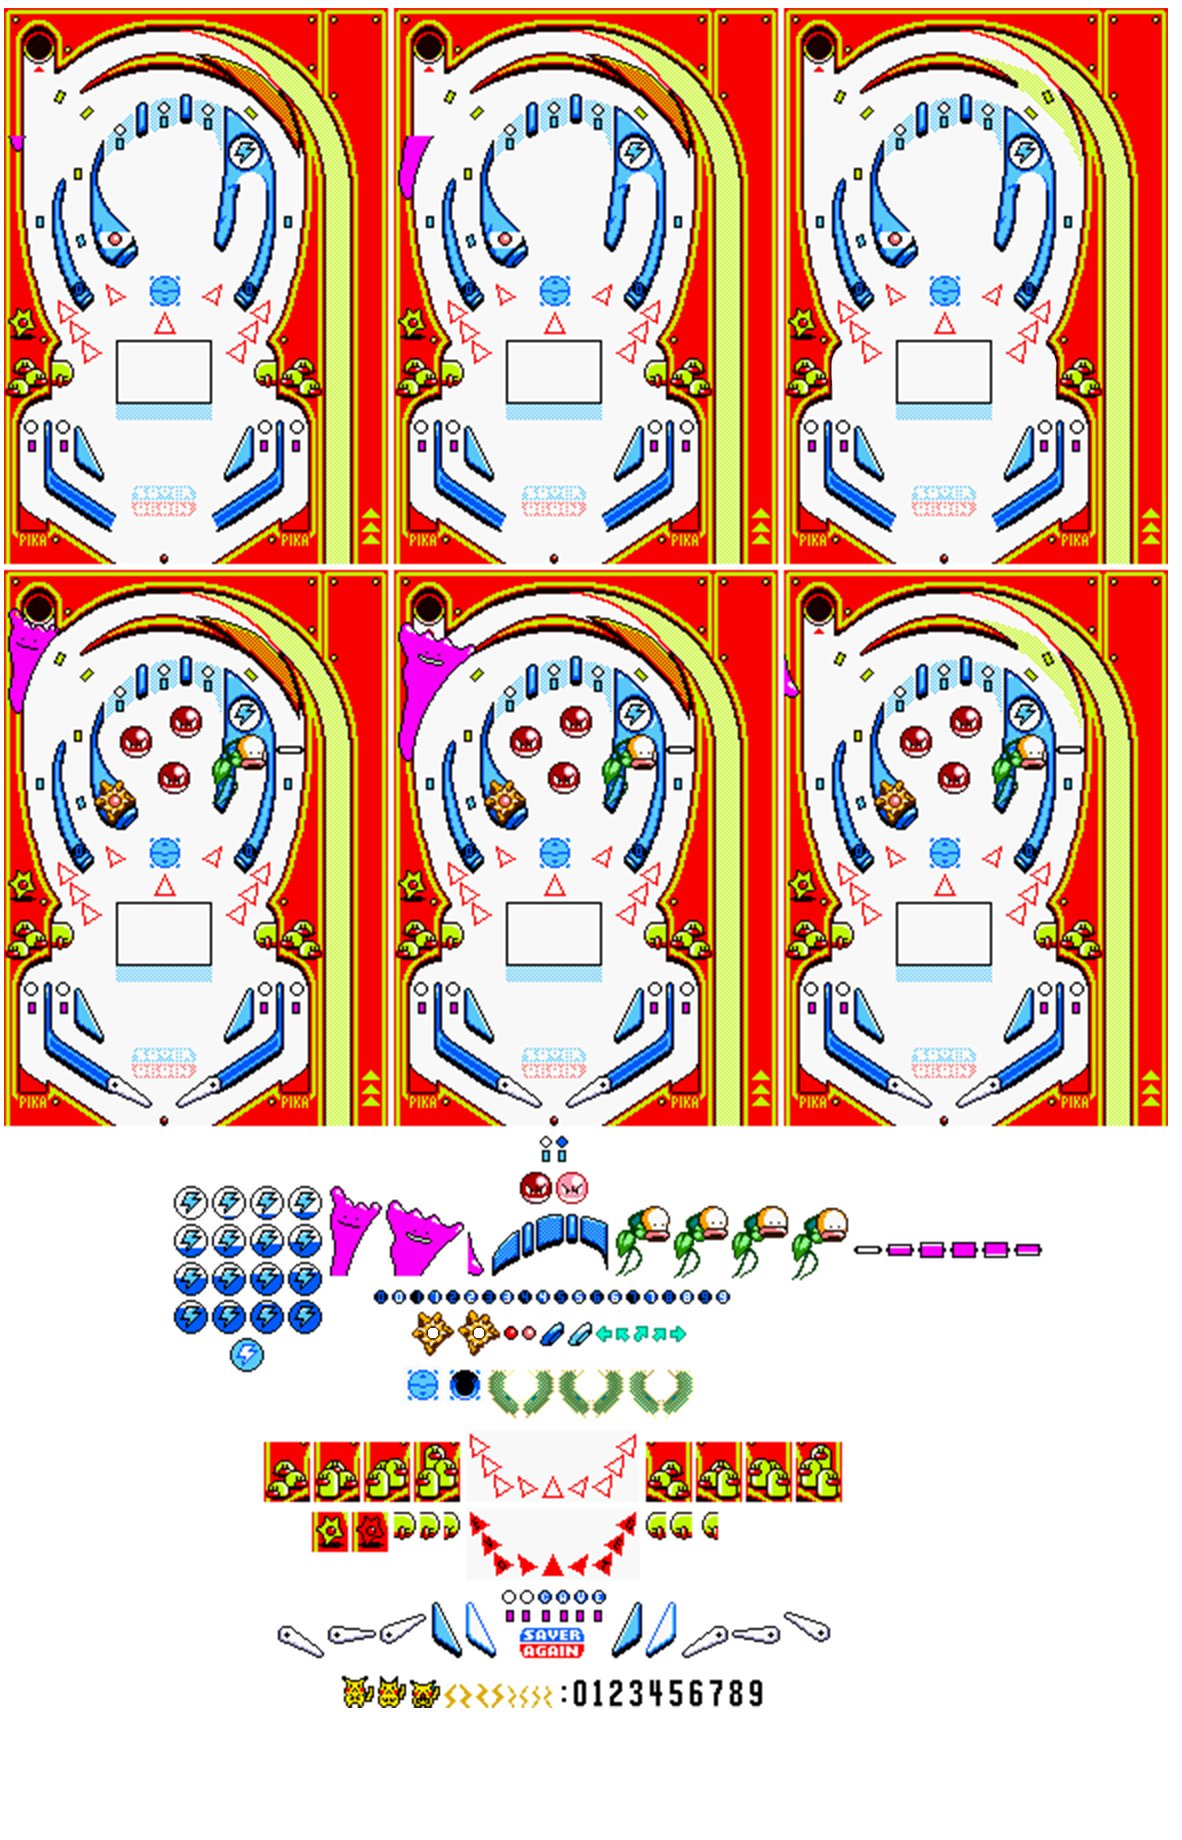
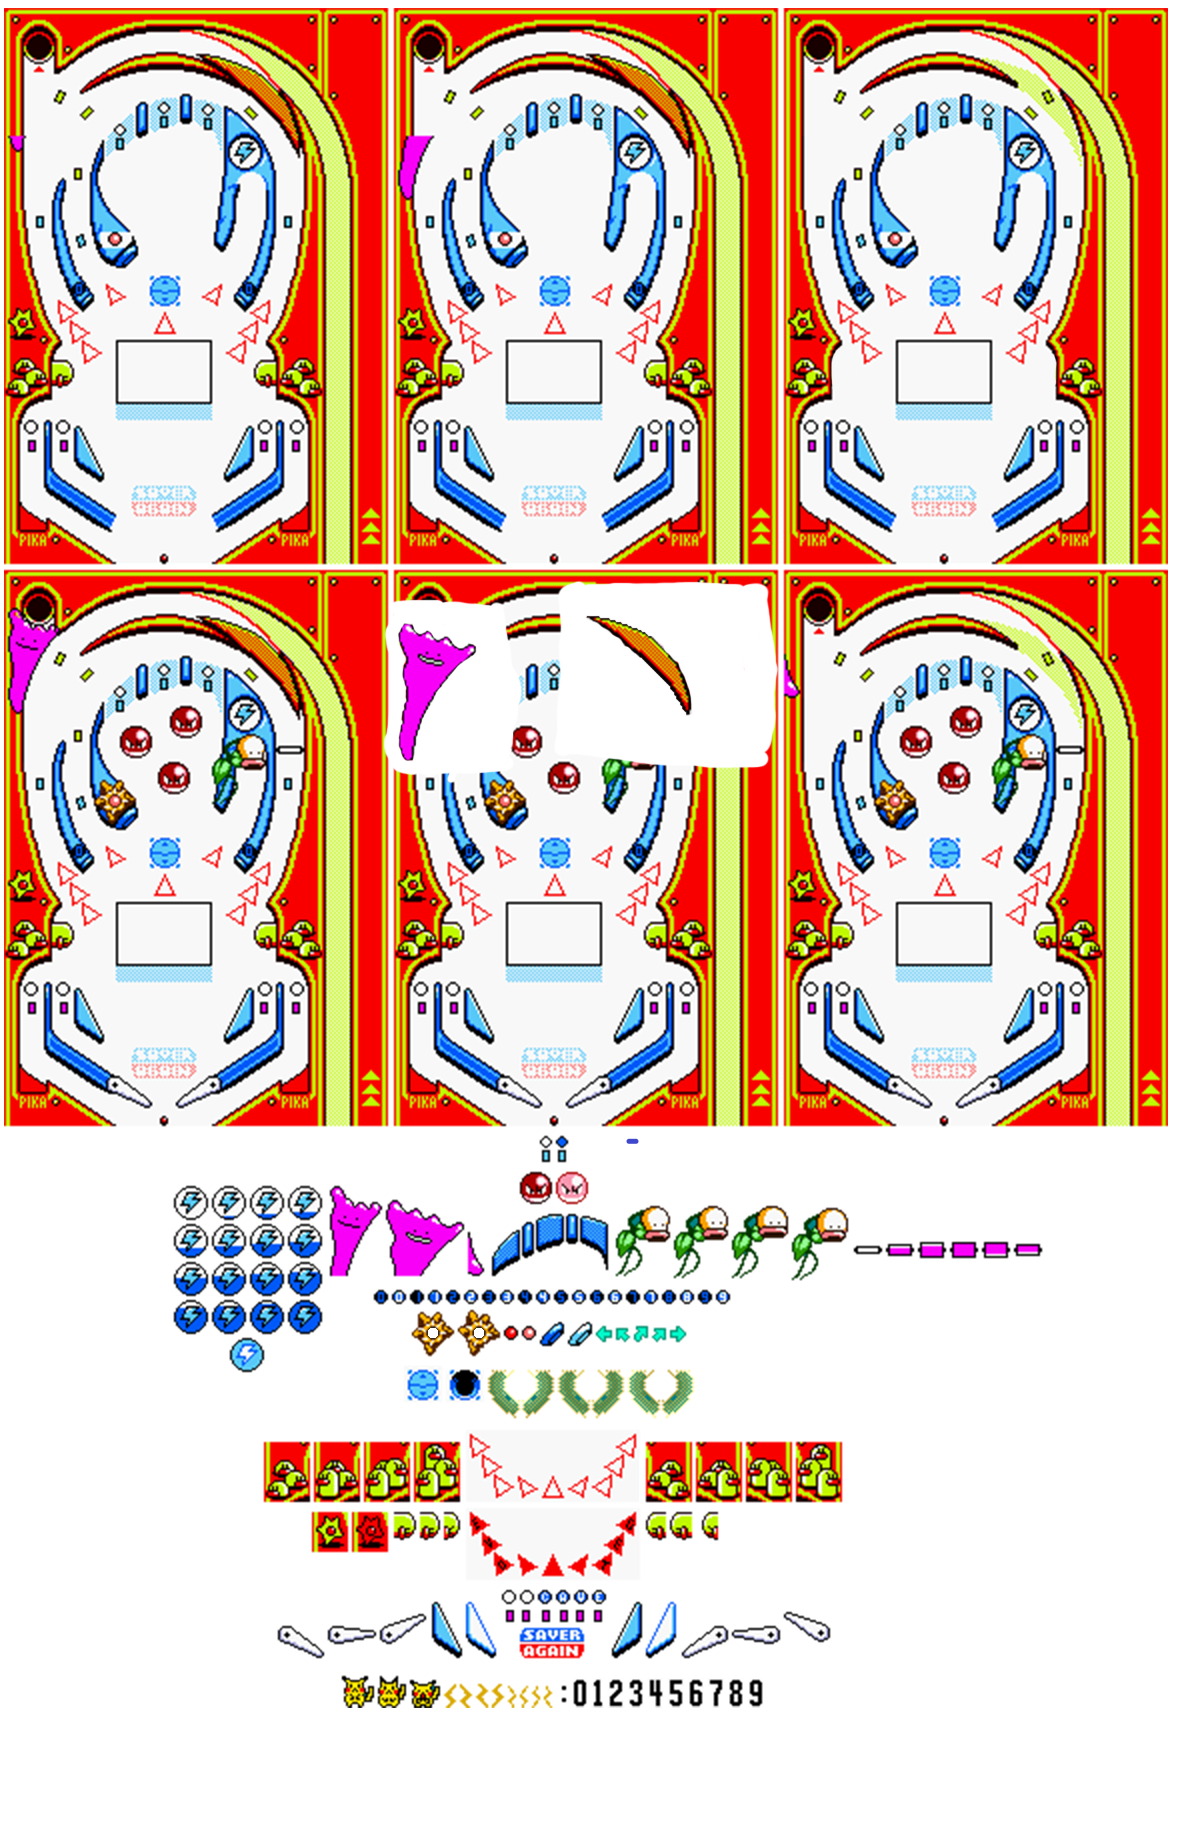
Amost all sprites

Changed region(s): [[0.3046, 0.3098, 0.6701, 0.4337]]

diff --git a/Pokemon_Pinball/ModuleSceneIntro.cpp b/Pokemon_Pinball/ModuleSceneIntro.cpp
@@ -19,10 +19,30 @@ ModuleSceneIntro::ModuleSceneIntro(Application* app, bool start_enabled) : Modul
 	pinball.ditto.w = 53;
 	pinball.ditto.h = 91;
 
+	pinball.ditto_expanded.x = 398;
+	pinball.ditto_expanded.y = 623;
+	pinball.ditto_expanded.w = 79;
+	pinball.ditto_expanded.h = 137;
+
 	pinball.voltorb_boost.x = 519;
 	pinball.voltorb_boost.y = 1171;
 	pinball.voltorb_boost.w = 34;
 	pinball.voltorb_boost.h = 35;
+
+	pinball.blocker.x = 586;
+	pinball.blocker.y = 616;
+	pinball.blocker.w = 106;
+	pinball.blocker.h = 100;
+
+	pinball.triangle_boosted_L.x = 464;
+	pinball.triangle_boosted_L.y = 1602;
+	pinball.triangle_boosted_L.w = 32;
+	pinball.triangle_boosted_L.h = 57;
+
+	pinball.triangle_boosted_R.x = 645;
+	pinball.triangle_boosted_R.y = 1602;
+	pinball.triangle_boosted_R.w = 33;
+	pinball.triangle_boosted_R.h = 59;
 }
 
 ModuleSceneIntro::~ModuleSceneIntro()
@@ -97,12 +117,6 @@ bool ModuleSceneIntro::Start()
 	pinball.starmie2.loop = true;
 	pinball.starmie2.speed = 0.03;
 
-	pinball.flipper_L.PushBack({ 277, 1625, 48, 34 });
-	pinball.flipper_L.PushBack({ 327, 1625, 50, 20 });
-	pinball.flipper_L.PushBack({ 379, 1613, 48, 32 });
-	pinball.flipper_L.loop = true;
-	pinball.flipper_L.speed = 0.06;
-
 	pinball.mid_screen.PushBack({ 1103, 10, 98, 66 });
 	pinball.mid_screen.PushBack({ 1203, 10, 98, 66 });
 	pinball.mid_screen.PushBack({ 1303, 10, 98, 66 });
@@ -147,19 +161,33 @@ update_status ModuleSceneIntro::Update()
 		PhysBody* Circle = App->physics->CreateCircle(App->input->GetMouseX(), App->input->GetMouseY(), PIXELS_TO_METERS(16));
 	}
 
-	//TEXTURES-----------------------------------------
+	
 	if (App->physics->debug == false) //Temporal measure to debug. Switches between the pinball map and the objects.
-	{
+
+	{	//TEXTURES-----------------------------------------
+
 		//Load background
 		App->renderer->Blit(pinball.background_tex, 0, 0, &pinball.background);
 
 		//Load ditto
 		App->renderer->Blit(pinball.background_tex, 3, 43, &pinball.ditto);
 
+		//Load expanded ditto
+		//App->renderer->Blit(pinball.background_tex, 5, 50, &pinball.ditto_expanded);
+
 		//Load voltorb
 		App->renderer->Blit(pinball.background_tex, 150, 193, &pinball.voltorb_boost);
 		App->renderer->Blit(pinball.background_tex, 170, 133, &pinball.voltorb_boost);
 		App->renderer->Blit(pinball.background_tex, 110, 153, &pinball.voltorb_boost);
+
+		//Load blocker
+		App->renderer->Blit(pinball.background_tex, 188, 46, &pinball.blocker);
+
+		//Load left triangle when hit
+		//App->renderer->Blit(pinball.background_tex, 68, 420, &pinball.triangle_boosted_L);
+
+		//Load right triangle when hit
+		//App->renderer->Blit(pinball.background_tex, 216, 420, &pinball.triangle_boosted_R);
 
 		//ANIMATIONS----------------------------------------
 
@@ -178,9 +206,16 @@ update_status ModuleSceneIntro::Update()
 		//Diglett at right side animation
 		App->renderer->Blit(pinball.background_tex, 248, 350, &(pinball.diglett_Right_Side.GetCurrentFrame()));
 
-		//Pikachus animation
-		App->renderer->Blit(pinball.background_tex, 275, 490, &(pinball.pikachu.GetCurrentFrame()));
-		App->renderer->Blit(pinball.background_tex, 13, 490, &(pinball.pikachu.GetCurrentFrame()));
+		if (App->input->GetKey(SDL_SCANCODE_RIGHT) == KEY_REPEAT) 
+		{
+			//Pikachu right animation
+			App->renderer->Blit(pinball.background_tex, 275, 490, &(pinball.pikachu.GetCurrentFrame()));
+		}
+		if (App->input->GetKey(SDL_SCANCODE_LEFT) == KEY_REPEAT)
+		{
+			//Pikachu left animation
+			App->renderer->Blit(pinball.background_tex, 13, 490, &(pinball.pikachu.GetCurrentFrame()));
+		}
 
 		//Bellsprout animation
 		App->renderer->Blit(pinball.background_tex, 210, 160, &(pinball.bellsprout.GetCurrentFrame()));
@@ -191,18 +226,12 @@ update_status ModuleSceneIntro::Update()
 		//Mid screen animation
 		App->renderer->Blit(pinball.mid_tex, 109, 332, &(pinball.mid_screen.GetCurrentFrame()));
 
-		//Mid screen animation
-		App->renderer->Blit(pinball.background_tex, 109, 332, &(pinball.flipper_L.GetCurrentFrame()));
+		
 		return UPDATE_CONTINUE;
 	}
 }
 
 void ModuleSceneIntro::AddSceneAnimations()
 {
-	//ditto.PushBack({331, 1189, 53, 91});
-	//ditto.PushBack({ 386, 1203, 53, 91 });
-	//ditto.loop = false;
-	//ditto.speed = 0.1;
-
 	
 }

diff --git a/Pokemon_Pinball/ModuleSceneIntro.h b/Pokemon_Pinball/ModuleSceneIntro.h
@@ -20,6 +20,11 @@ struct PinballMachine
 	SDL_Rect ditto;
 	SDL_Rect ditto_expanded;
 	SDL_Rect voltorb_boost;
+	SDL_Rect blocker;
+	SDL_Rect triangle_boosted_L;
+	SDL_Rect triangle_boosted_R;
+	SDL_Rect flipper_L;
+	SDL_Rect flipper_R;
 
 	//Animations
 	Animation dugtrio_R;
@@ -30,9 +35,7 @@ struct PinballMachine
 	Animation pikachu;
 	Animation bellsprout;
 	Animation starmie2;
-	Animation flipper_L;
-	Animation flipper_R;
-
+	
 	Animation mid_screen;
 };
 
